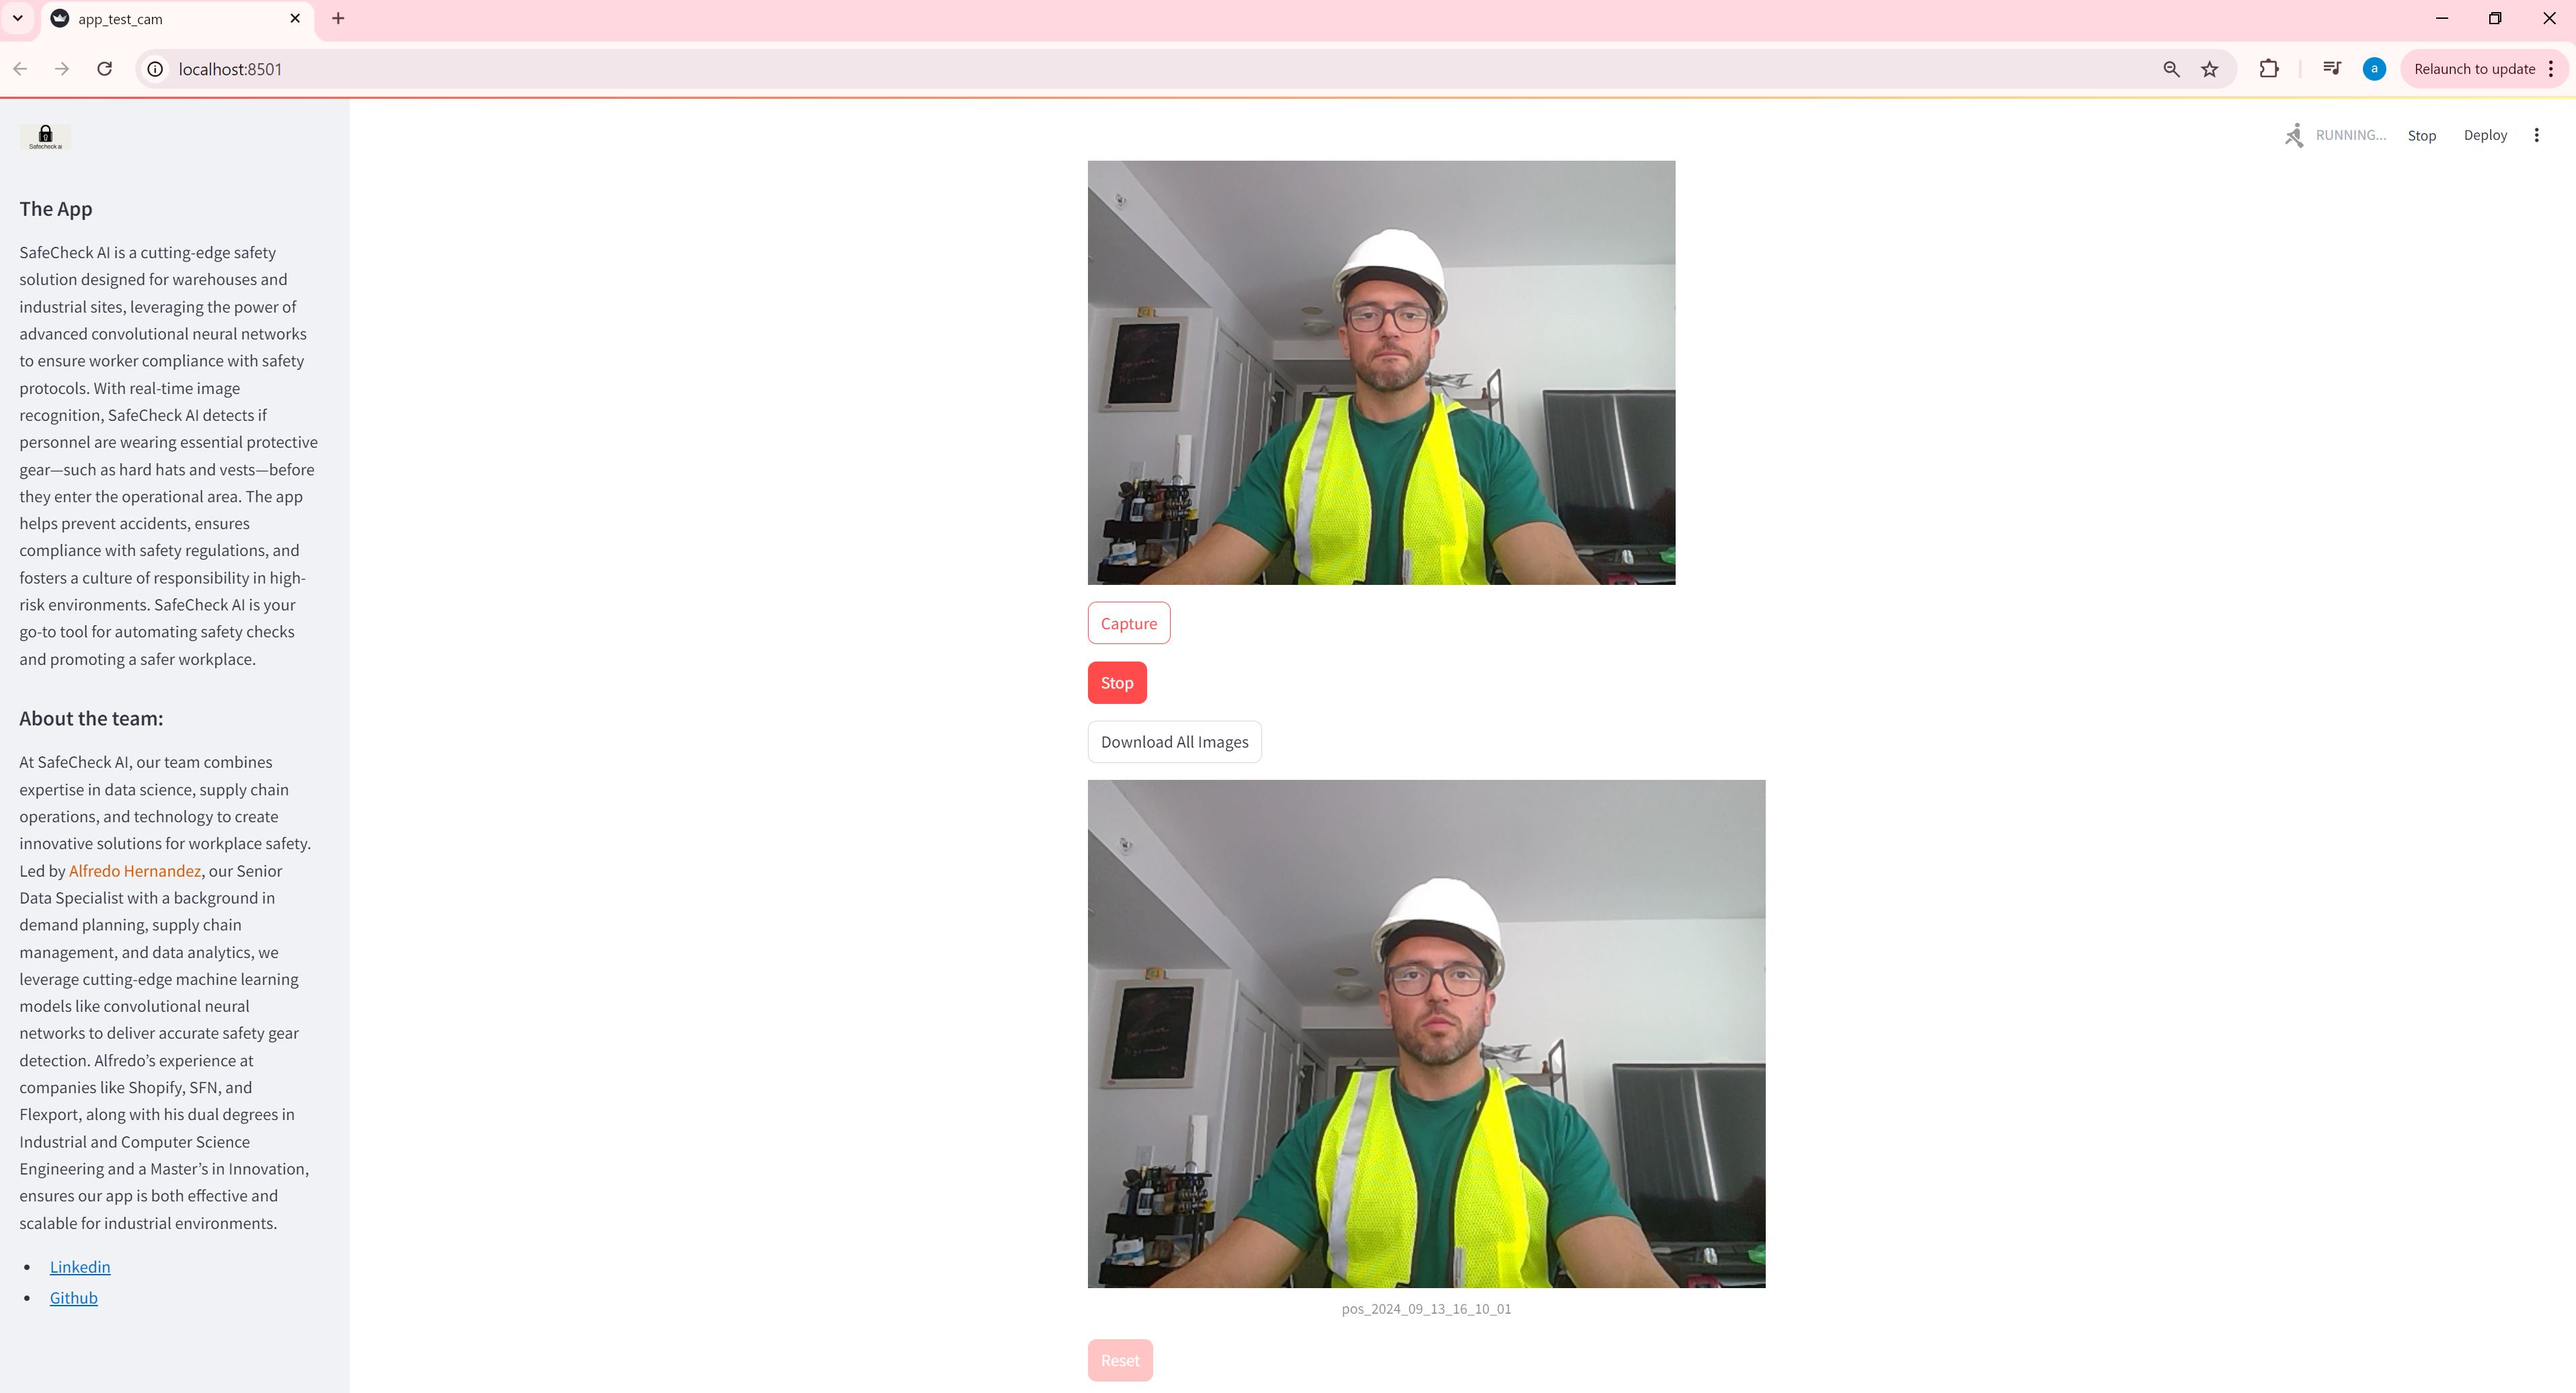
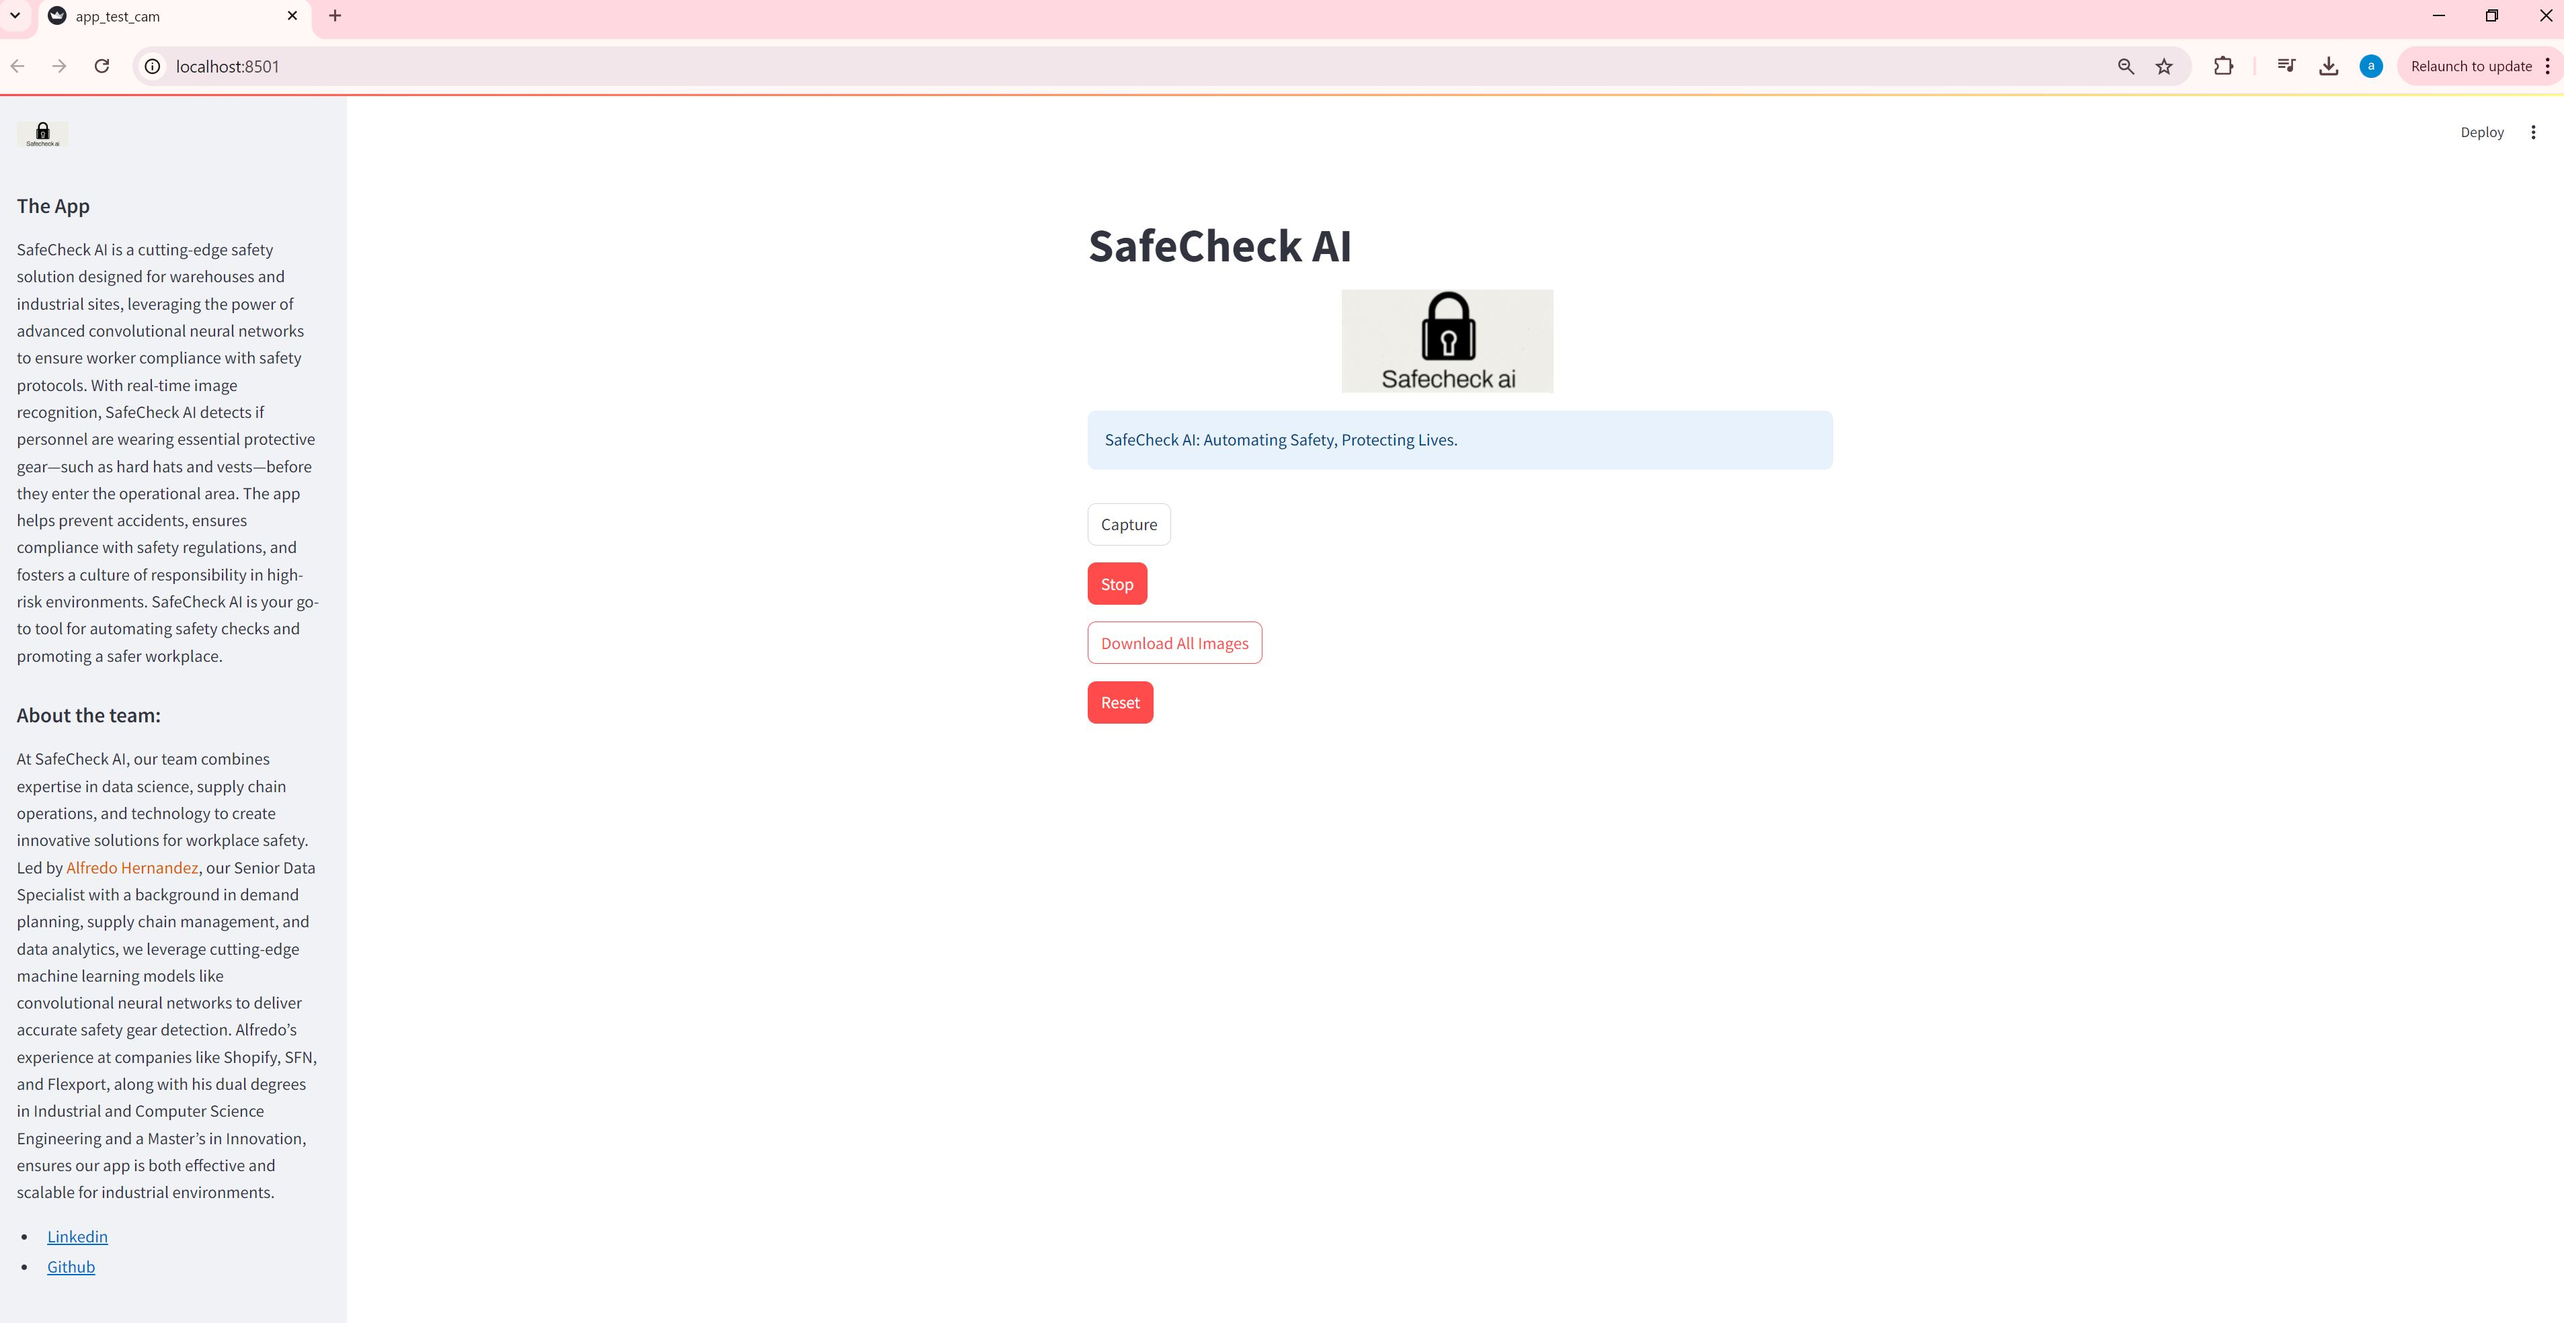
imgs updated

Changed region(s): [[0.0, 0.031, 1.0, 0.9604], [0.4056, 0.9604, 0.468, 0.9914], [0.0, 0.0, 0.0624, 0.031]]

diff --git a/Streamlit/app_test_cam.py b/Streamlit/app_test_cam.py
@@ -18,7 +18,7 @@ import pyautogui
 import tensorflow as tf # Importing TensorFlow
 
 
-st.title('🎈 Safety Gear Identifier ') #title of app
+st.title('SafeCheck AI') #title of app
 st.logo("../banners/logo.png") #adding the logo to top corner
 
 print('starting')
